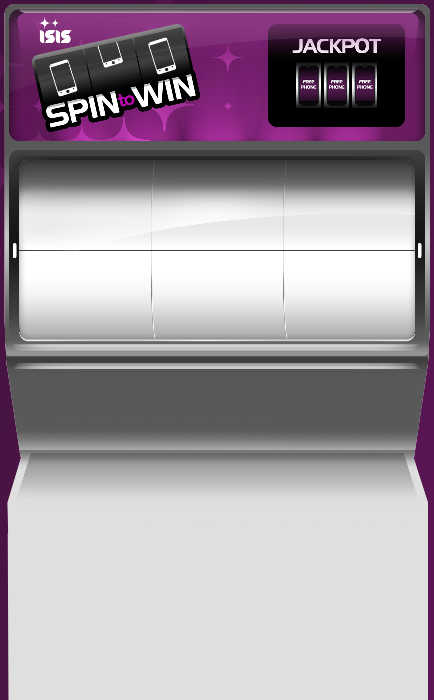
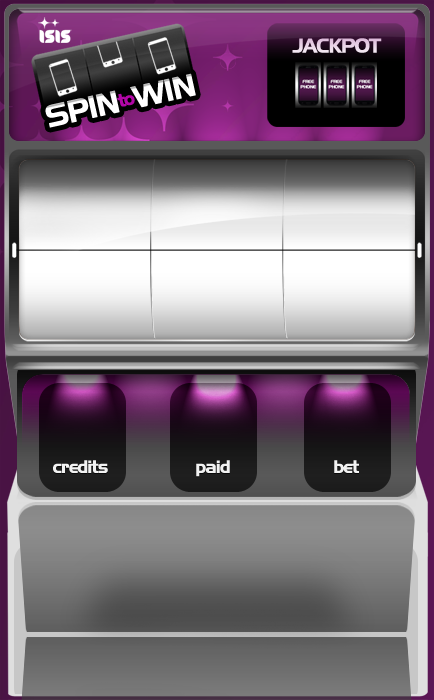
ui

diff --git a/index.html b/index.html
@@ -6,6 +6,7 @@
 	<script src="jquery.backgroundPosition.js"></script>
 
 		<title>Slot Machine</title>
+		<link href='http://fonts.googleapis.com/css?family=Iceland' rel='stylesheet' type='text/css'>
 		<style type="text/css">
 		 * {
 			-webkit-user-select:none;
@@ -15,7 +16,7 @@
 		  :focus {
 			outline: 0;
 		  }
-		 body,html { height:100%; margin:0px; overflow:hidden; }
+		 body,html { height:100%; margin:0px; overflow:hidden; font-weight:normal; font-family:iceland,verdana;}
 		 body { margin:0px; overflow:hidden; }
 		 #spin-btn { width:100%; position:absolute; bottom:25;left:0%;text-align:center; z-index:999; }
 		 #frame {
@@ -51,8 +52,10 @@
 			text-align:center;
 
 		 }
+		 #leds { -webkit-transition: -webkit-transform .2s ease-in-out;  background:url(leds.png) no-repeat; height:28px; position:absolute; z-index:9999; bottom:-19px; width:100%; background-position:center -28px; margin:0 auto;} 
+		 #leds.on { background-position:center 0px; }
 		 #spin-btn { margin:auto; text-align:center; }
-		 #score-board { z-index:998;position:relative;width:80%; background:black; border-radius:10px; padding:10px;margin:0px auto;color:#fff;}
+		 #score-board { z-index:998;position:relative;width:92%; padding:20px 10px 10px 10px;margin:0px auto;font-size:2em;color:#fd15ea;}
 		 #score-board div { display:inline-block; width:33%; padding-top:10px;text-align:center;}
 		 #control {
 		    -webkit-tap-highlight-color: rgba(0,0,0,0);
@@ -353,7 +356,10 @@ $(document).ready(function() {
                     window.clearInterval(x);
 					if(winner==1){
 					 winSnd.play();
-					 navigator.vibrate(3000);
+					 
+					 $("#leds")..fadeIn(200, function(){ $("#leds").toggleClass('on'); } ).fadeOut(200, function(){ $("#leds").toggleClass('on'); } )fadeIn(200, function(){ $("#leds").toggleClass('on'); } ).fadeOut(200, function(){ $("#leds").toggleClass('on'); } ).fadeIn(200, function(){ $("#leds").toggleClass('on'); } ).fadeOut(200, function(){ $("#leds").toggleClass('on'); } ).fadeIn(200, function(){ $("#leds").toggleClass('on'); } ).fadeOut(200, function(){ $("#leds").toggleClass('on'); } ).fadeIn(200, function(){ $("#leds").toggleClass('on'); } ).fadeOut(200, function(){ $("#leds").toggleClass('on'); } ).fadeIn(200, function(){ $("#leds").toggleClass('on'); } ).fadeOut(200, function(){ $("#leds").toggleClass('on'); } ).fadeIn(200, function(){ $("#leds").toggleClass('on'); } ).fadeOut(200, function(){ $("#leds").toggleClass('on'); } ).fadeIn(200, function(){ $("#leds").toggleClass('on'); } ).fadeOut(200, function(){ $("#leds").toggleClass('on'); } ).fadeIn(200, function(){ $("#leds").toggleClass('on'); } ).fadeOut(200, function(){ $("#leds").toggleClass('on'); } ).fadeIn(200, function(){ $("#leds").toggleClass('on'); } ).fadeOut(200, function(){ $("#leds").toggleClass('on'); } ).fadeIn(200, function(){ $("#leds").toggleClass('on'); } ).fadeOut(200, function(){ $("#leds").toggleClass('on'); } ).fadeIn(200, function(){ $("#leds").toggleClass('on'); } ).fadeOut(200, function(){ $("#leds").toggleClass('on'); } ).fadeIn(200, function(){ $("#leds").toggleClass('on'); } ).toggleClass('on');
+					 
+					 
 					}
 					printResult();
 					
@@ -382,12 +388,13 @@ $(document).ready(function() {
 	<div id="frame">
 	</div>
 	<div id="wheels">
-
+		<div id="leds"></div>
 		<ul>
 			<li id="slot1" class="slot"></li>
 			<li id="slot2" class="slot"></li>
 			<li id="slot3" class="slot"></li>
 		</ul>
+	
 			<div id="score-board">
 	  <div id="result"></div>
 	  <div id="credits">100</div><div id="score">0</div><div id="bet">1</div>
